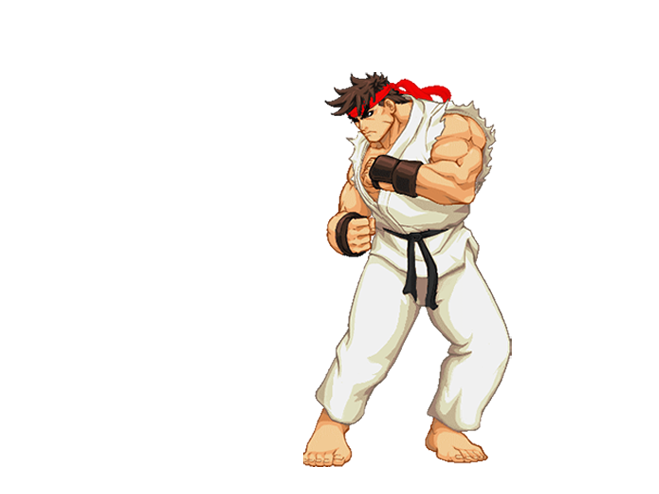
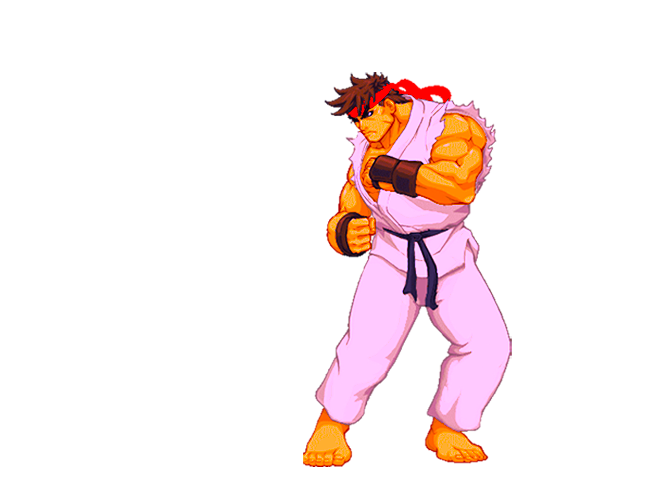
major updates, but still failing

Changed region(s): [[0.4552, 0.1518, 0.7891, 0.9413]]

diff --git a/css/main.css b/css/main.css
@@ -7,7 +7,9 @@ body {
 div.main {
 	background-color: white;
 	margin-top: 110px;
+	/* Adjust padding as test for Flipped Ryu */
 	padding-left: 100px;
+	padding-right: 100px;
 	min-width: 1200px;
 	height: 500px;
 	position: relative;
@@ -25,12 +27,12 @@ div.ryu {
 	height: 494px;
 }
 
-div.ryu-still, div.ryu-ready, div.ryu-throwing {
+div.ryu-still, div.ryu-ready, div.ryu-throwing, div.ryu-cool {
 	width: 659px;
 	height: 494px;
 }
 
-div.ryu-ready, div.ryu-throwing {
+div.ryu-ready, div.ryu-throwing, div.ryu-cool {
 	display: none;
 }
 
@@ -46,7 +48,11 @@ div.ryu-throwing {
   background-image: url('../images/ryu-throwing-hadouken.png');
 }
 
-div.ryu-still, div.ryu-ready, div.ryu-throwing, div.hadouken {
+div.ryu-cool {
+	background-image: url('../images/ryu-cool.gif');
+}
+
+div.ryu-still, div.ryu-ready, div.ryu-throwing, div.hadouken, div.ryu-cool {
 	background-repeat: no-repeat;
 }
 
@@ -60,4 +66,78 @@ div.hadouken {
 	top: 167px;
 	left: 520px;
 	float: left;
+}
+
+/* Testing adding Flipped Ryu */
+/* Body adjustments */
+
+
+/* Ryu Container */
+div.ryu-container1 {
+	float: right;
+}
+
+/* Ryu image */
+div.ryu1 {
+	width: 659px;
+	height: 494px;
+}
+
+div.ryu-standing-still1, div.ryu-ready-position1, div.ryu-throwing-hadouken1, div.ryu-cool1 {
+	width: 659px;
+	height: 494px;
+}
+
+div.ryu-ready-position1, div.ryu-throwing-hadouken1, div.ryu-cool1 {
+	display: none;
+}
+
+div.ryu-ready-position1 {
+	background-image: url('../images/ryu-ready-position1.gif');
+}
+
+div.ryu-standing-still1 {
+  background-image: url('../images/ryu-standing-still1.png');
+}
+
+div.ryu-throwing-hadouken1 {
+  background-image: url('../images/ryu-throwing-hadouken1.png');
+}
+
+div.ryu-cool1 {
+	background-image: url('../images/ryu-cool1.gif');
+}
+
+div.ryu-standing-still1, div.ryu-ready-position1, div.ryu-throwing-hadouken1, div.hadouken1, div.ryu-cool1 {
+	background-repeat: no-repeat;
+}
+
+div.hadouken1 {
+	background-image: url('../images/hadouken1.gif');
+	width: 156px;
+	height: 90px;
+	display: none; 
+	position: absolute;
+	z-index: 10;
+	top: 167px;
+	right: 520px;
+	float: right;
+}
+
+/* End of Test Section */
+div.text-content {
+	position: absolute;
+	left: 650px;
+	height: 425px;
+	width: 600px;
+	padding-top: 75px;
+	font-family: 'Amatic SC' , sans-serif;
+}
+
+div.how-to p {
+	width: 50%;
+	color: white;
+	font-size: 37px;
+	line-height: 45px;
+	display: inline-block;
 }

diff --git a/js/app.js b/js/app.js
@@ -4,15 +4,15 @@ $(document).ready(function() {
 		$('.ryu-ready').show();
 	})
 	.mouseleave(function() {
-		$('.ryu-ready').hide();
 		$('.ryu-still').show();
+		$('.ryu-ready').hide();
 	})
 	.mousedown(function() {
 		playHadouken();
 		$('.ryu-ready').hide();
 		$('.ryu-throwing').show();
 		$('.hadouken').finish().show().animate(
-  			{'left': '1020px'},
+  			{'left': '1880px'},
   			500,
  			function() {
     			$(this).hide();
@@ -22,9 +22,41 @@ $(document).ready(function() {
 	.mouseup(function() {
 		$('.ryu-throwing').hide();
 		$('.ryu-ready').show();
-		// Ryu goes back to his ready position 
 	});
 });
+		// Begin Test Section for Flipped Ryu
+$(document).ready(function() {
+	$('.ryu1').mouseenter(function() {
+		$('.ryu-standing-still1').hide();
+		$('.ryu-ready-position1').show();
+	})
+	.mouseleave(function() {
+		$('.ryu-standing-still1').show();
+		$('.ryu-ready-position1').hide();
+	})
+	.mousedown(function() {
+		playHadouken();
+		$('.ryu-ready-position1').hide();
+		$('.ryu-throwing-hadouken1').show();
+		$('.hadouken1').finish().show().animate(
+  			{'right': '1880px'},
+  			500,
+ 			function() {
+    			$(this).hide();
+    			$(this).css('right', '520px');
+  			});
+	})
+	.mouseup(function() {
+		$('.ryu-throwing-hadouken1').hide();
+		$('.ryu-ready-position1').show();
+	});
+});
+
+	// End Test Section
+
+
+	
+
 function playHadouken () {
 	$('#hadouken-sound')[0].volume = 0.5;
 	$('#hadouken-sound')[0].load();

diff --git a/index.html b/index.html
@@ -4,7 +4,7 @@
 	<meta charset="UTF-8">
 	<title>Streetfighter</title>
 	<link rel="stylesheet" href="css/normalize.css">
-	<link rel="stylesheet" href="css/main.css">
+	<link rel="stylesheet" href="css/main.css"> <link href='https://fonts.googleapis.com/css?family=Shadows+Into+Light|Amatic+SC' rel='stylesheet' type='text/css'>
 </head>
 <body>
 	<div class="main"><audio id="hadouken-sound" src="sound/hadouken.mp3"></audio>
@@ -13,10 +13,35 @@
 				<div class="ryu-still"></div>
 				<div class="ryu-ready"></div>
 				<div class="ryu-throwing"></div>
+				<div class="ryu-cool"></div>
 			</div>
 			<div class="hadouken"></div>
+		</div>
+	
+		<!-- **Testing adding flipped Ryu** -->
+	
+		<div class="ryu-container1">
+			<div class="ryu1">
+				<div class="ryu-standing-still1"></div>
+				<div class="ryu-ready-position1"></div>
+				<div class="ryu-throwing-hadouken1"></div>
+				<div class="ryu-cool1"></div>
+			</div>
+			<div class="hadouken1"></div>
+		</div>
+
+	<!-- End of Test Section -->
 
 	</div>
+		<!-- Testing the text -->
+	<div class="text-content">
+		<div class="how-to">
+				<p>Click on Ryu or Evil Ryu to make them throw a Hadouken!</p>
+				<p>Press and hold down the "x" key to make him strike his cool pose!</p>
+		</div>
+	</div>
+		<!-- End text test -->
+	
 	
 	<script src="http://code.jquery.com/jquery.min.js"></script>
 	<script src="js/app.js"></script>
